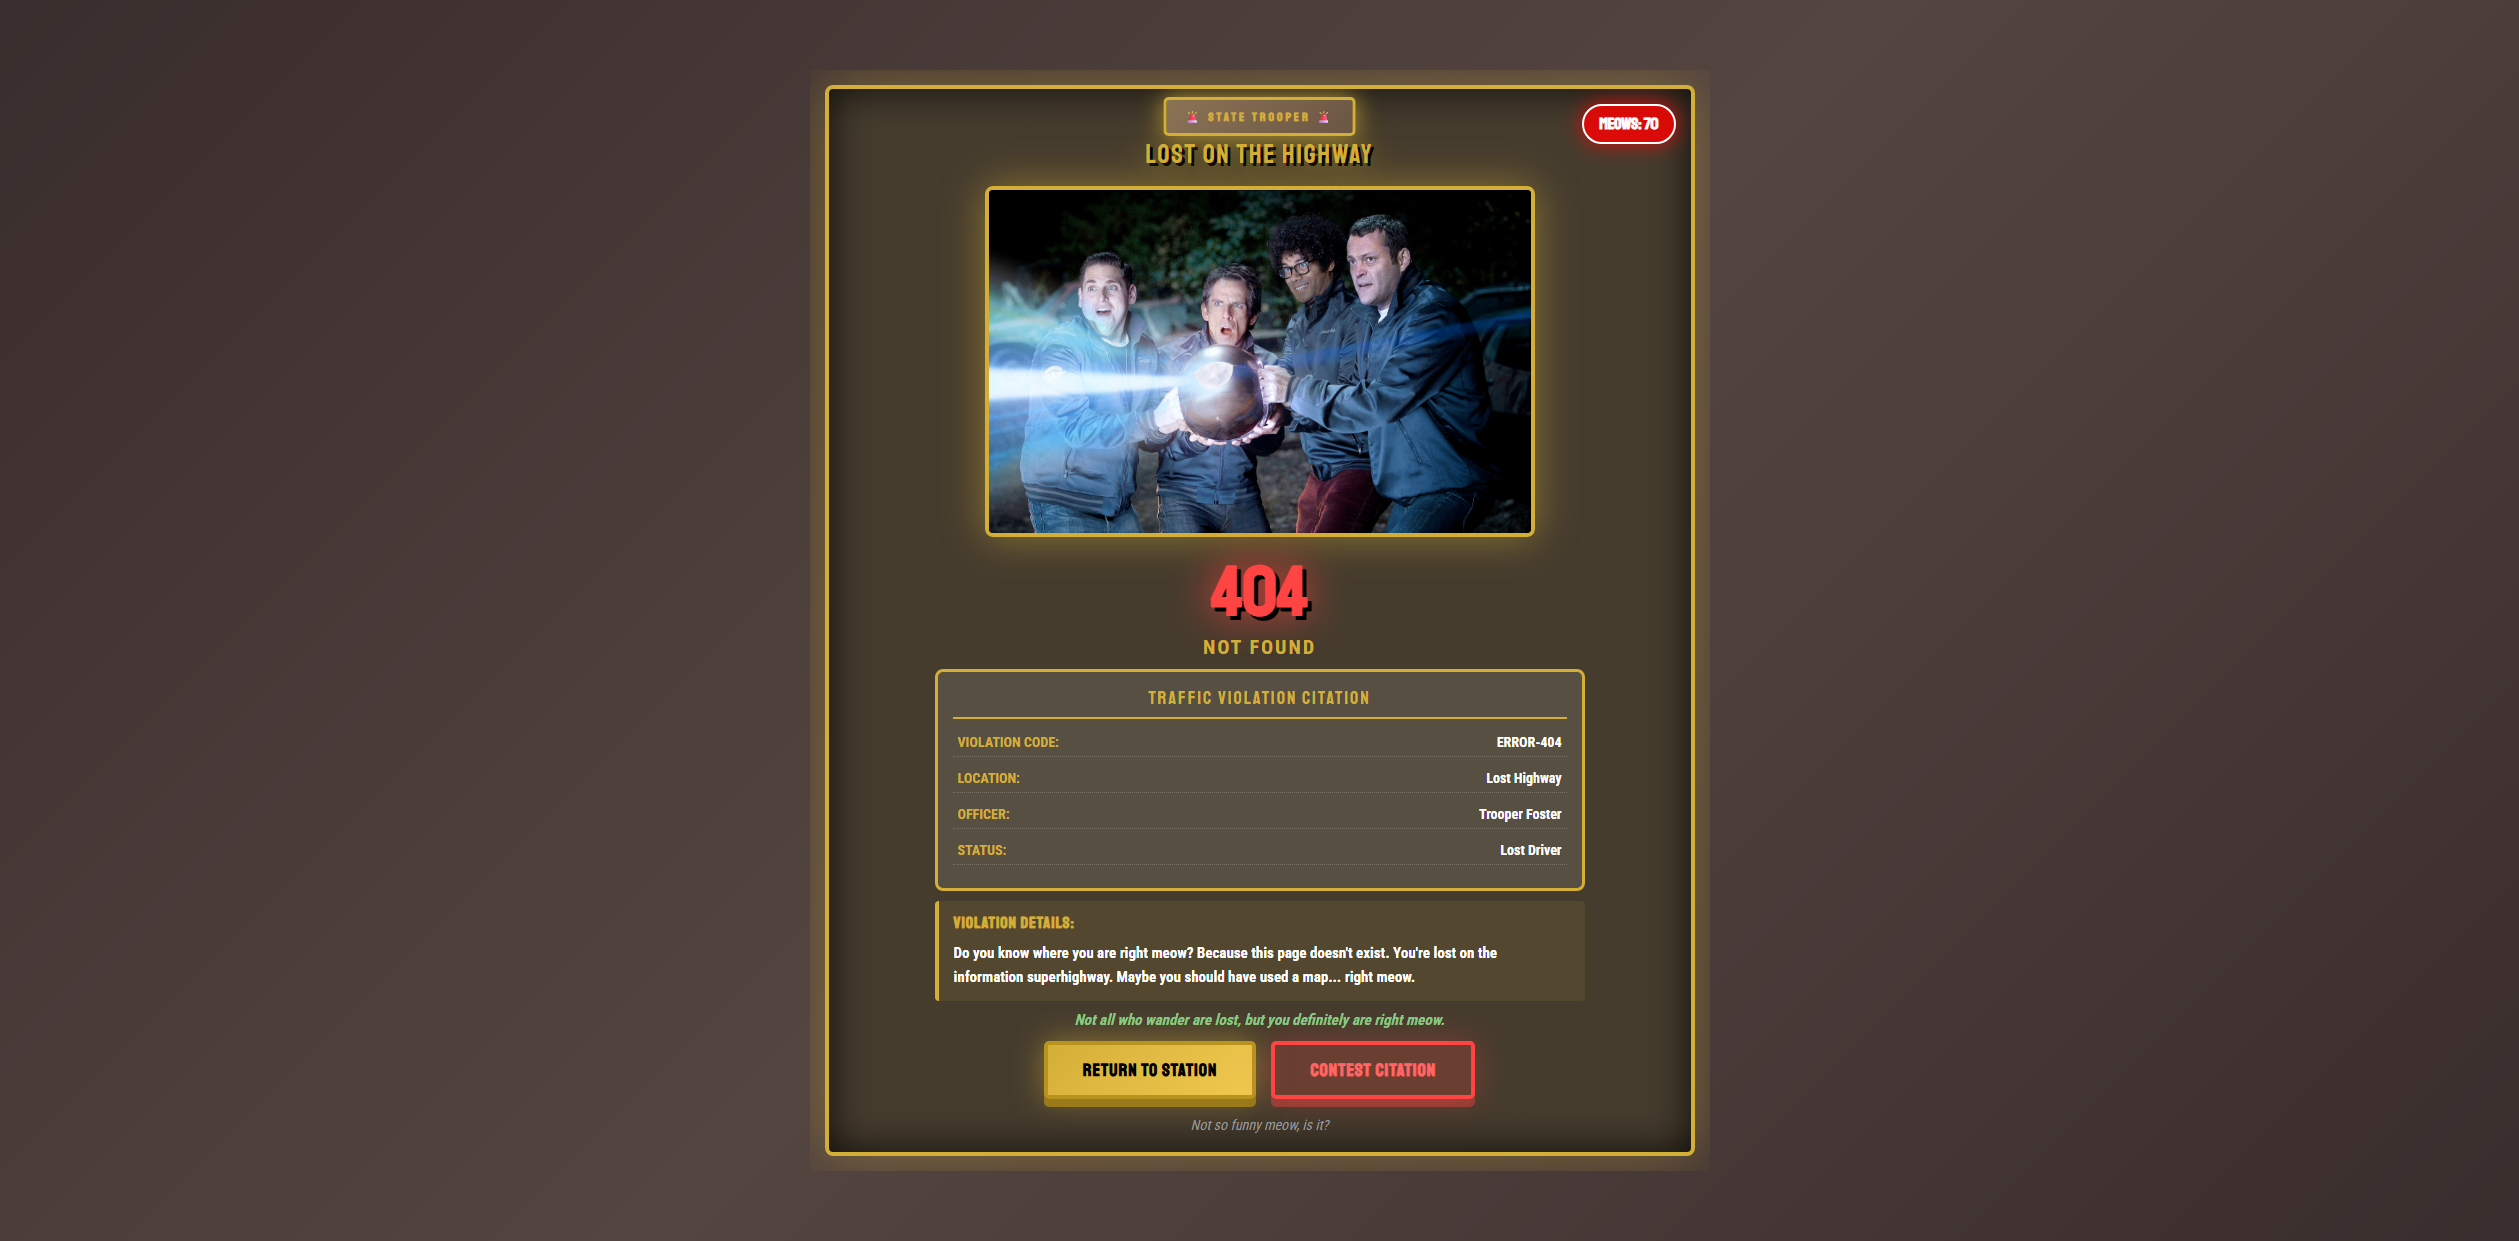
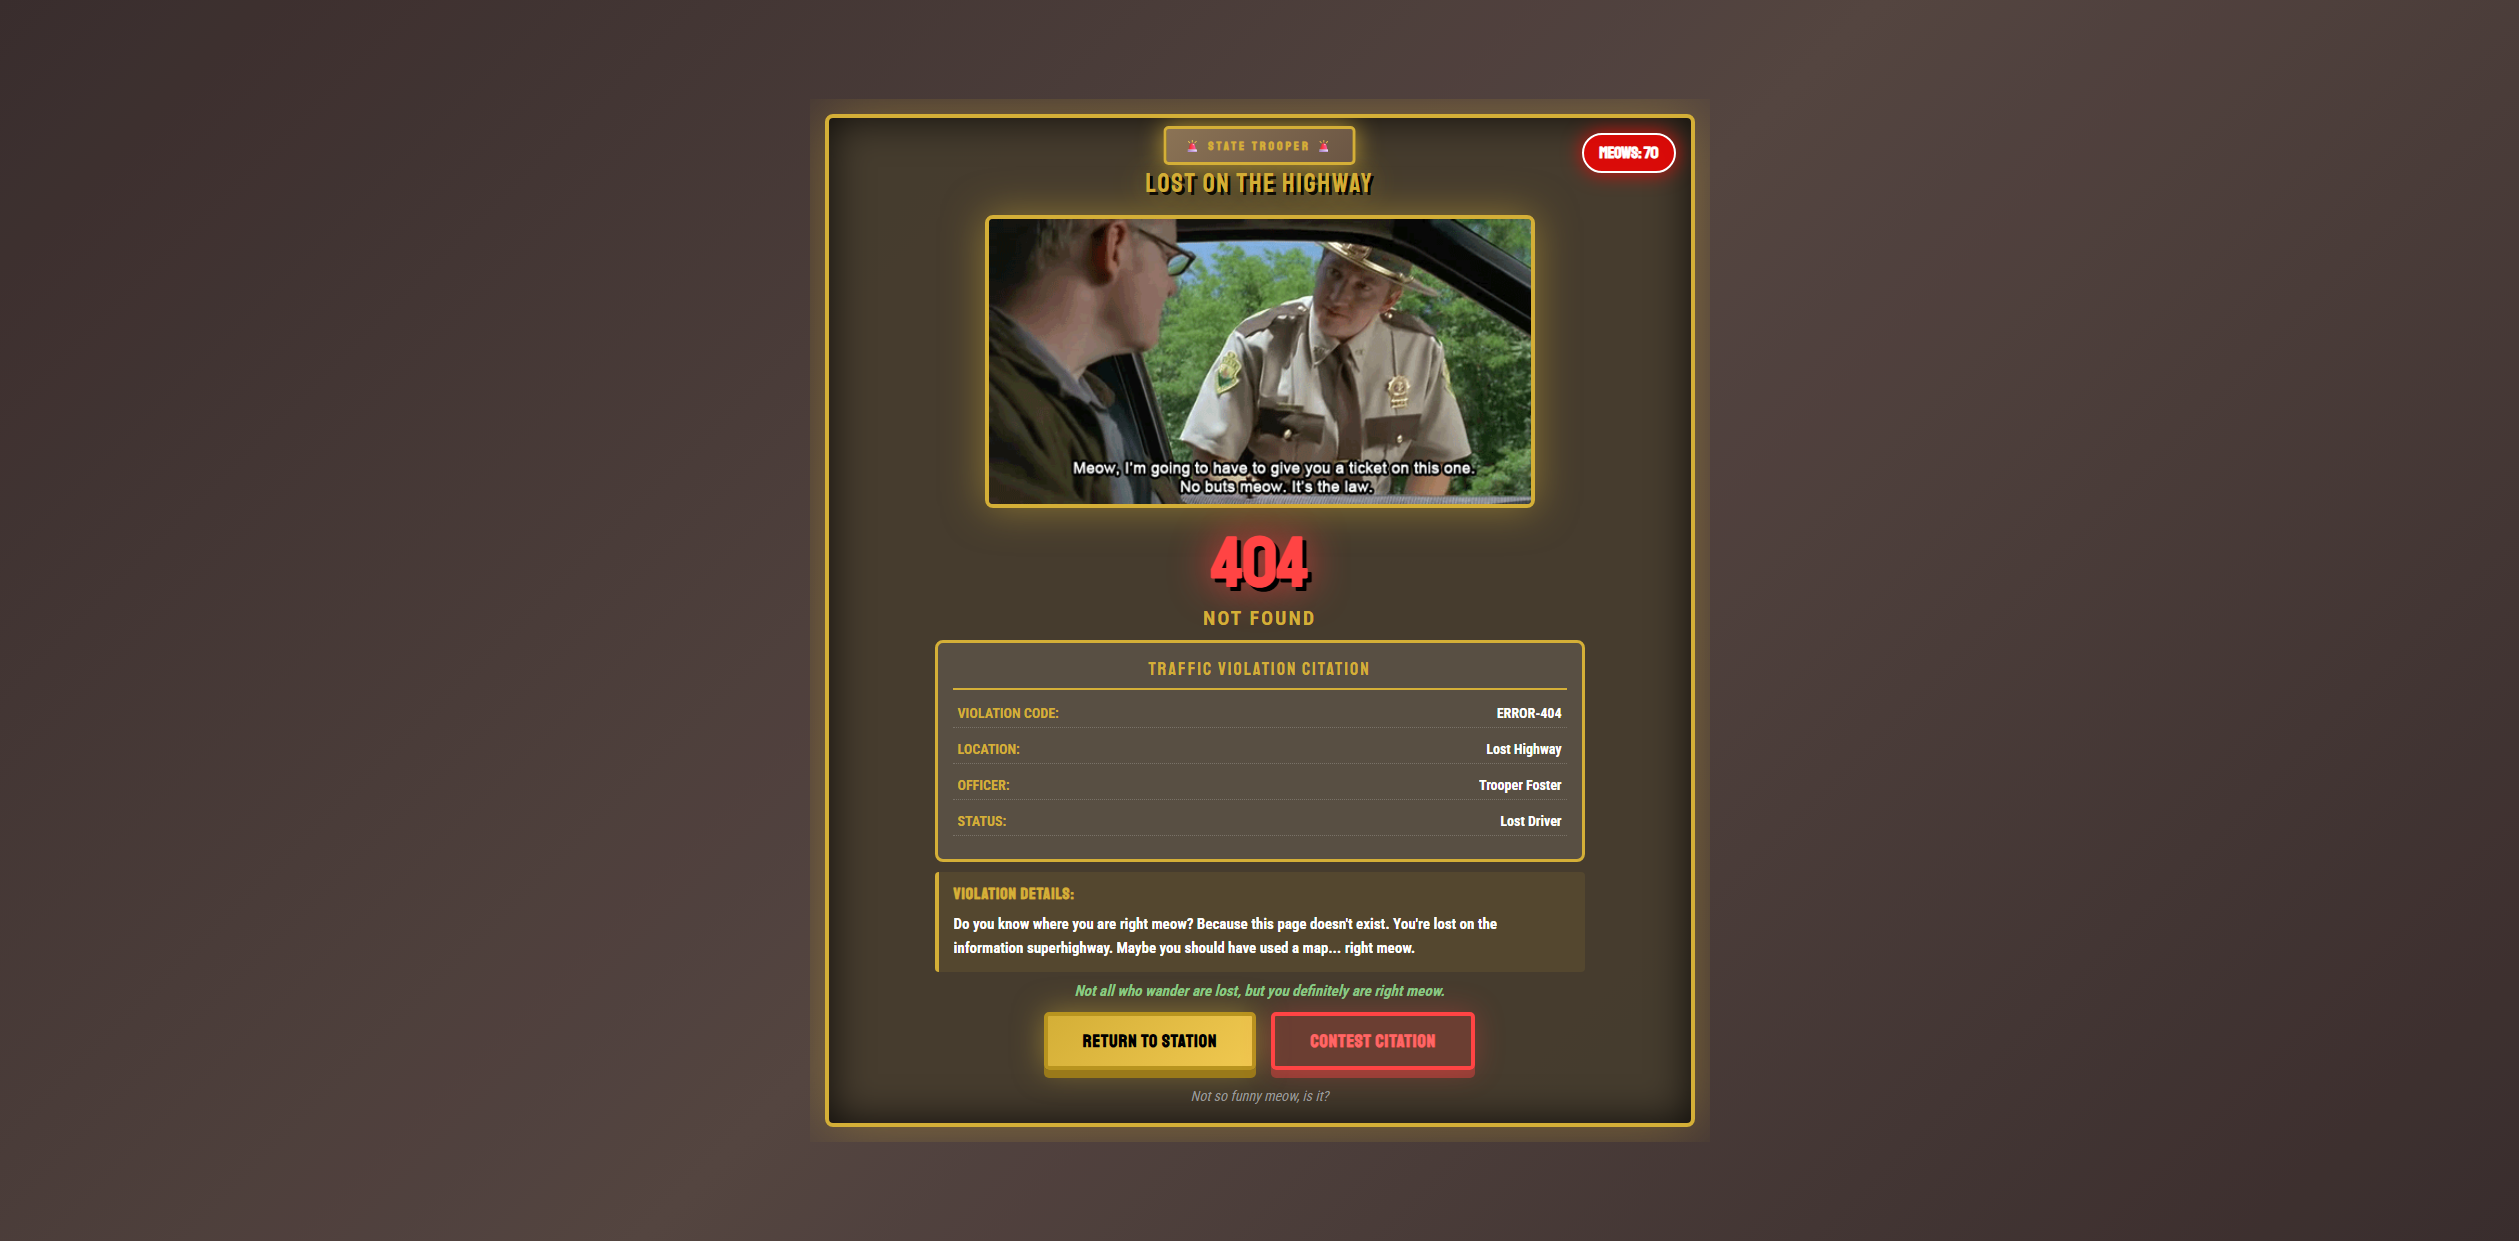
Fix meow-game theme to use animated gif

Changed region(s): [[0.3096, 0.0612, 0.6812, 0.9492]]

diff --git a/themes/meow-game/error.html b/themes/meow-game/error.html
@@ -387,7 +387,7 @@
                 License And Registration
             </div>
 
-            <img src="resources/trooper.jpg" alt="State Trooper" class="trooper-img">
+            <img src="resources/trooper.gif" alt="State Trooper" class="trooper-img">
 
             <div class="error-code" id="error-code">000</div>
             <div class="error-message" id="error-message">Unknown Error</div>
